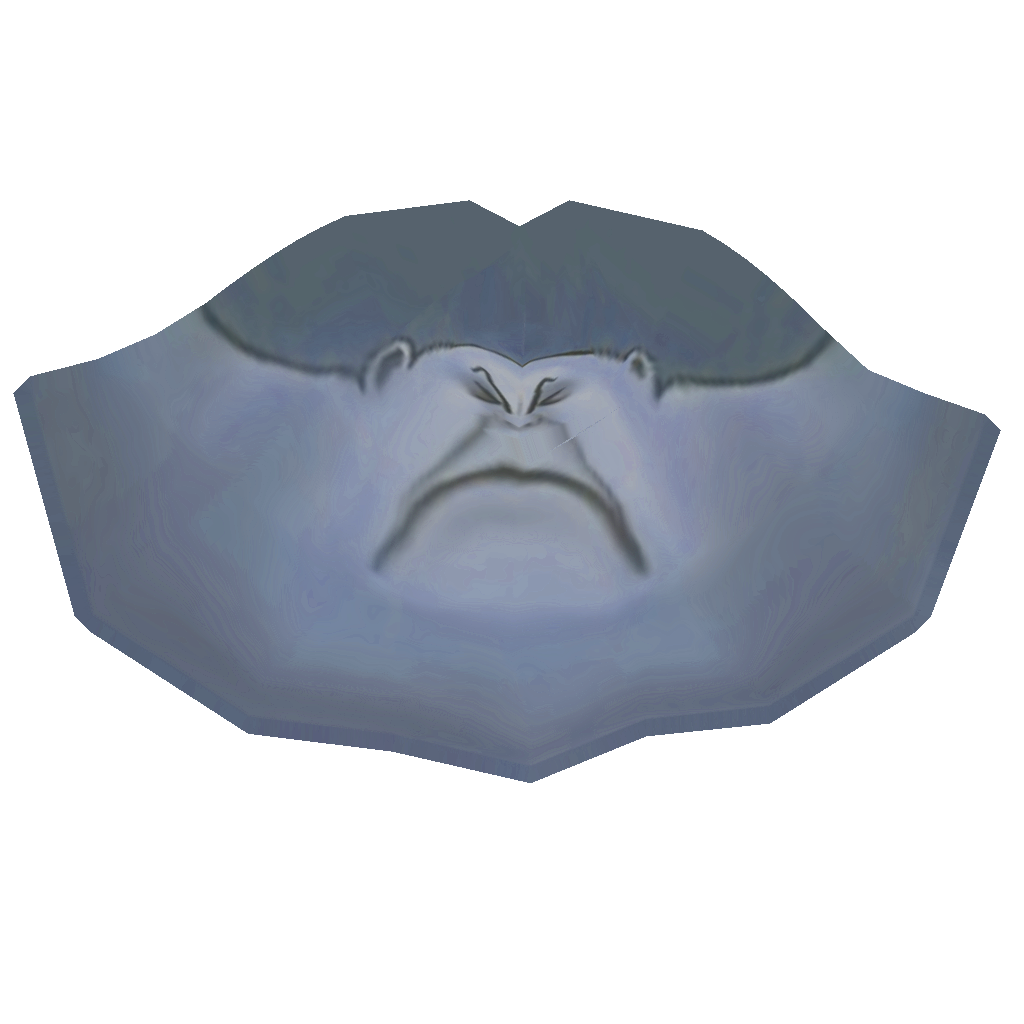
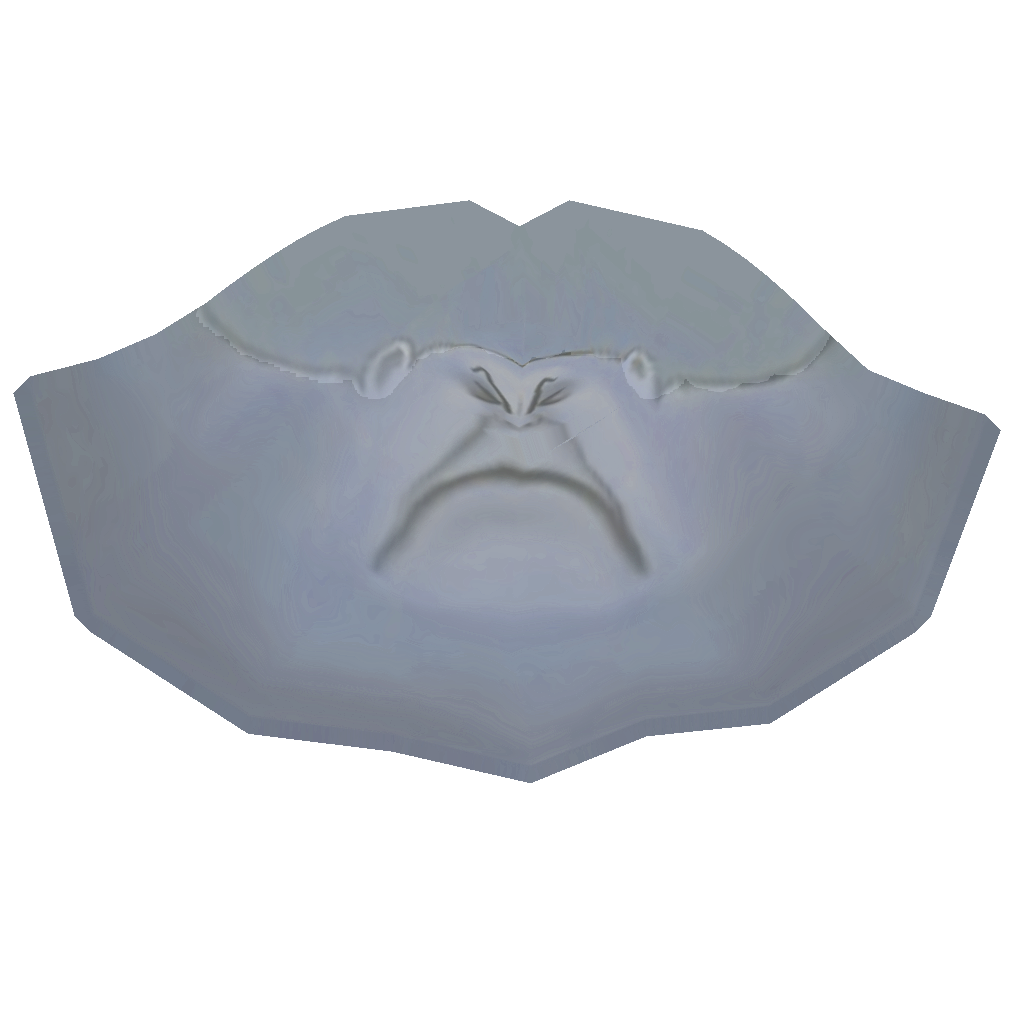
Add in Barrister.

diff --git a/toontown/suit/SuitDNA.py b/toontown/suit/SuitDNA.py
@@ -55,7 +55,8 @@ suitHeadTypes = [
     'trf',
     'ski',
     'def',
-    'bgh'
+    'bgh',
+    'barr'
 ]
 
 supervisors = [
@@ -82,6 +83,7 @@ suitATypes = [
     'dt',
     'bs',
     'le',
+    'barr',
     'bw',
     'pp',
     'nc',
@@ -495,6 +497,8 @@ class SuitVisual:
                     headPath = self.headModelPath(suit.style.body, 'phase_4/models/char/suitB-heads2')
                 if self.key in ['bar', 'inv', 'cfn']:
                     headPath = self.headModelPath(suit.style.body, 'phase_15/models/char/ttr_r_ene_cgr_heads')
+                if self.key == 'barr':
+                    headPath = self.headModelPath(suit.style.body, 'phase_11/models/char/ttr_r_ene_lawbotBarrister')
                 headModel = loader.loadModel(headPath)
                 head = headModel.find('**/' + head)
                 head.reparentTo(suit.find(attachPoint))
@@ -541,6 +545,7 @@ GENERAL_SUIT_VISUALS: Set[SuitVisual] = {
     SuitVisual('sd',  5.65 / bSize,  VBase4(0.5, 0.8, 0.75, 1.0),   None,                         'spin-doctor.jpg',      'telemarketer',        7.9),
     SuitVisual('le',  7.125 / aSize, VBase4(0.25, 0.25, 0.5, 1.0),  None,                         None,                   'legaleagle',          8.27),
     SuitVisual('bw',  7.0 / aSize,   legalPolyColor,                None,                         None,                   'bigwig',              8.69),
+    SuitVisual('barr', 7.0 / aSize,   legalPolyColor,                None,                         None,                   ['barrister'],              8.75),
     SuitVisual('sc',  3.6 / cSize,   moneyPolyColor,                None,                         None,                   'coldcaller',          4.77),
     SuitVisual('pp',  3.55 / aSize,  VBase4(1.0, 0.5, 0.6, 1.0),    None,                         None,                   'pennypincher',        5.26),
     SuitVisual('tw',  4.5 / cSize,   moneyPolyColor,                None,                         None,                   'tightwad',            5.41),
@@ -627,6 +632,7 @@ customSuit2Dept = {
     'trf': 's',
     'ski': 'm',
     'def': 'l',
+    'barr': 'l',
     'bgh': 'c',
     'bar': 'c',
     'inv': 'c',
@@ -719,7 +725,7 @@ class SuitDNA(AvatarDNA.AvatarDNA):
         dg = PyDatagram()
         dg.addFixedString(self.type, 1)
         if self.type == 's':
-            dg.addFixedString(self.name, 3)
+            dg.addFixedString(self.name, 20)
             dg.addFixedString(self.dept, 1)
         elif self.type == 'b':
             dg.addFixedString(self.dept, 1)
@@ -734,7 +740,7 @@ class SuitDNA(AvatarDNA.AvatarDNA):
         dgi = PyDatagramIterator(dg)
         self.type = dgi.getFixedString(1)
         if self.type == 's':
-            self.name = dgi.getFixedString(3)
+            self.name = dgi.getFixedString(20)
             self.dept = dgi.getFixedString(1)
             self.body = getSuitBodyType(self.name)
         elif self.type == 'b':
@@ -794,6 +800,13 @@ class SuitDNA(AvatarDNA.AvatarDNA):
             # if the rng is less than the chance, we set the suit to the alternate suit
             if random.random() < alternateSuitChance:
                 self.name = 'bar'
+        
+        if self.name == 'le':
+            # we define it's rng
+            alternateSuitChance = 0.4
+            # if the rng is less than the chance, we set the suit to the alternate suit
+            if random.random() < alternateSuitChance:
+                self.name = 'barr'
 
         self.body = getSuitBodyType(self.name)
         return
@@ -829,12 +842,12 @@ class SuitDNA(AvatarDNA.AvatarDNA):
                 self.name = 'bgh'
 
         # we get it's parent suit
-        if self.name == 'ac':
+        if self.name == 'le':
             # we define it's rng
             alternateSuitChance = 0.4
             # if the rng is less than the chance, we set the suit to the alternate suit
             if random.random() < alternateSuitChance:
-                self.name = 'def'
+                self.name = 'barr'
         
         # we get it's parent suit
         if self.name == 'mb':

diff --git a/toontown/battle/SuitBattleGlobals.py b/toontown/battle/SuitBattleGlobals.py
@@ -1259,6 +1259,28 @@ __LEGAL_EAGLE_ATTACKS.add(SuitAttackAttribute(
 __LEGAL_EAGLE: SuitAttributes = SuitAttributes(key='le', name=TTLocalizer.SuitLegalEagle, singular=TTLocalizer.SuitLegalEagleS, plural=TTLocalizer.SuitLegalEagleP, tier=6, attacks=__LEGAL_EAGLE_ATTACKS)
 __registerSuitAttributes(__LEGAL_EAGLE)
 
+__BARRISTER_ATTACKS = set()
+__BARRISTER_ATTACKS.add(SuitAttackAttribute(
+    attack=SuitAttackType.MUMBO_JUMBO,
+    damage={7: 10, 8: 13, 9: 15, 10: 17, 11: 19},
+    accuracy=60,
+    weight=40,
+))
+__BARRISTER_ATTACKS.add(SuitAttackAttribute(
+    attack=SuitAttackType.JARGON,
+    damage={7: 9, 8: 11, 9: 12, 10: 15, 11: 17},
+    accuracy=60,
+    weight=20,
+))
+__BARRISTER_ATTACKS.add(SuitAttackAttribute(
+    attack=SuitAttackType.PLAY_HARDBALL,
+    damage={7: 11, 8: 13, 9: 16, 10: 19, 11: 21},
+    accuracy=45,
+    weight=40,
+))
+__BARRISTER: SuitAttributes = SuitAttributes(key='barr', name=TTLocalizer.SuitBarrister, singular=TTLocalizer.SuitBarristerS, plural=TTLocalizer.SuitBarristerP, tier=6, attacks=__BARRISTER_ATTACKS)
+__registerSuitAttributes(__BARRISTER)
+
 __BIG_WIG_ATTACKS = set()
 __BIG_WIG_ATTACKS.add(SuitAttackAttribute(
     attack=SuitAttackType.GUILT_TRIP,

diff --git a/toontown/coghq/LawbotCogHQLoader.py b/toontown/coghq/LawbotCogHQLoader.py
@@ -44,8 +44,8 @@ class LawbotCogHQLoader(CogHQLoader.CogHQLoader):
 
         if str(zoneId) in self.musicJson['global_music']:
             self.music = base.loader.loadMusic(self.musicJson['global_music'][str(zoneId)])
-            if (str(zoneId) + '_battle') in self.musicJson['global_music']:
-                self.battleMusic = base.loader.loadMusic(self.musicJson['global_music'][(str(zoneId) + '_battle')])
+        if (str(zoneId) + '_battle') in self.musicJson['global_music']:
+            self.battleMusic = base.loader.loadMusic(self.musicJson['global_music'][(str(zoneId) + '_battle')])
 
     def unloadPlaceGeom(self):
         if self.geom:

diff --git a/toontown/toonbase/TTLocalizerEnglish.py b/toontown/toonbase/TTLocalizerEnglish.py
@@ -2491,6 +2491,9 @@ SuitInvestigatorP = 'Investigators'
 SuitConfiscator = 'Confiscator'
 SuitConfiscatorS = 'a Confiscator'
 SuitConfiscatorP = 'Confiscators'
+SuitBarrister = 'Barrister'
+SuitBarristerP = 'Barristers'
+SuitBarristerS = 'a Barrister'
 SuitFaceoffDefaultTaunts = ['Boo!']
 SuitAttackDefaultTaunts = ['Take that!', 'Take a memo on this!']
 SuitAttackNames = {'AUDIT': 'Audit!',
